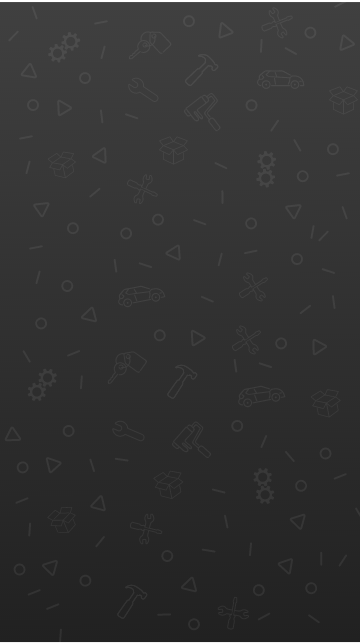
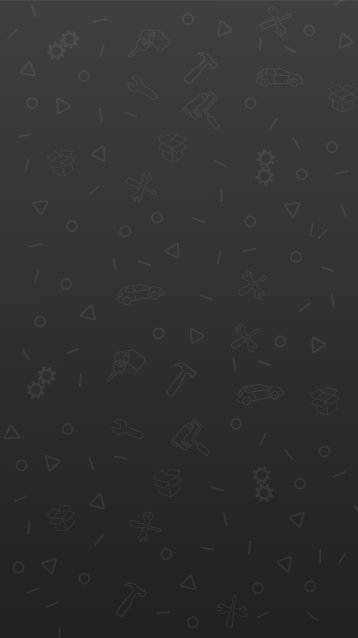
Preparing dark mode in home screen

Changed region(s): [[0.0, 0.0, 1.0, 1.0]]

diff --git a/lib/screens/home_screen.dart b/lib/screens/home_screen.dart
@@ -47,13 +47,7 @@ class _HomeScreenState extends State<HomeScreen> {
     super.initState();
   }
 
-  // ignore: unused_element
-  void _updateSettings() async {
-    FirebaseFirestore.instance.collection('users').doc(uid).update({
-      'isDark': isDark,
-      'isNotifications': isNotif,
-    });
-  }
+ 
 
   @override
   Widget build(BuildContext context) {
@@ -61,6 +55,7 @@ class _HomeScreenState extends State<HomeScreen> {
     if (settings.isDark == null) isDark = false;
 
     isNotif = settings.isNotifications;
+    //isDark = settings.isDark;
     //final uid = FirebaseAuth.instance.currentUser.uid;
     FirebaseFirestore.instance.collection('users').doc(uid).get();
     settings.setValues(
@@ -77,7 +72,9 @@ class _HomeScreenState extends State<HomeScreen> {
         decoration: BoxDecoration(
           //color: Color(0xFFF3F3F3),
           image: DecorationImage(
-            image: AssetImage(
+            image: isDark ? AssetImage(
+              'assets/dark.png',
+            ) : AssetImage(
               'assets/grey.png',
             ),
             fit: BoxFit.cover,
@@ -109,6 +106,7 @@ class _HomeScreenState extends State<HomeScreen> {
                       icon: Icon(
                         Icons.menu,
                         size: 35,
+                        color: isDark ? Colors.white : Colors.black,
                       ),
                       itemBuilder: (context) => [
                         PopupMenuItem(
@@ -141,7 +139,7 @@ class _HomeScreenState extends State<HomeScreen> {
                 left: MediaQuery.of(context).size.width * 0.3,
                 child: Text('What',
                     style: GoogleFonts.ubuntu(
-                      color: Color(0xFFFFD320),
+                      color: isDark ? Color(0xFF00D1CD) : Color(0xFFFFD320),
                       fontSize: 43,
                       letterSpacing: 0.1,
                       fontWeight: FontWeight.w600,
@@ -153,7 +151,7 @@ class _HomeScreenState extends State<HomeScreen> {
                 text: TextSpan(
                     text: 'would like to',
                     style: GoogleFonts.ubuntu(
-                      color: Colors.black,
+                      color: isDark ? Colors.white : Colors.black,
                       fontSize: 32,
                       letterSpacing: 0.1,
                       fontWeight: FontWeight.w600,
@@ -162,7 +160,7 @@ class _HomeScreenState extends State<HomeScreen> {
                       TextSpan(
                         text: ' do?',
                         style: GoogleFonts.ubuntu(
-                          color: Color(0xFFFFD320),
+                          color: isDark ? Color(0xFF00D1CD) : Color(0xFFFFD320),
                           fontSize: 43,
                           letterSpacing: 0.1,
                           fontWeight: FontWeight.w700,

diff --git a/lib/screens/account_screen.dart b/lib/screens/account_screen.dart
@@ -1,11 +1,14 @@
 import 'package:advMe/animation/bouncy_page_route.dart';
+import 'package:advMe/providers/settings.dart';
 import 'package:advMe/screens/ads_screen.dart';
 import 'package:advMe/screens/edit_profile.dart';
 import 'package:advMe/widgets/all_orders.dart';
 import 'package:advMe/widgets/favorite_orders.dart';
 import 'package:advMe/widgets/your_ads.dart';
+import 'package:cloud_firestore/cloud_firestore.dart';
 import 'package:firebase_auth/firebase_auth.dart';
 import 'package:flutter/material.dart';
+import 'package:provider/provider.dart';
 
 class AccountScreen extends StatefulWidget {
   @override
@@ -13,8 +16,20 @@ class AccountScreen extends StatefulWidget {
 }
 
 class _AccountScreenState extends State<AccountScreen> {
+
+  final uid = FirebaseAuth.instance.currentUser.uid;
+  bool isDark = false;
+  bool isNotif = false;
+
+  void _updateSettings() async {
+    FirebaseFirestore.instance.collection('users').doc(uid).update({
+      'isDark': isDark,
+      'isNotifications': isNotif,
+    });
+  }
   @override
   Widget build(BuildContext context) {
+     final settings = Provider.of<SettingsUser>(context);
     return Scaffold(
       body: Container(
           height: MediaQuery.of(context).size.height,
@@ -260,6 +275,27 @@ class _AccountScreenState extends State<AccountScreen> {
                     )
                   ]),
                 ),
+              ),
+              Positioned(
+                top: MediaQuery.of(context).size.height * 0.91,
+                left: MediaQuery.of(context).size.width * 0.7,
+                child: Row(children:[
+                  IconButton(icon: Icon(Icons.nightlight_round,color: settings.isDark ? Color(0xFF00D1CD) : Colors.white,size: 35,),onPressed: (){
+                    setState(() {
+                      settings.isDark = !settings.isDark;
+                    isDark = settings.isDark;
+                    _updateSettings();
+                    });
+                    
+                  },),
+                  IconButton(icon: Icon(Icons.wb_sunny,color: settings.isDark ? Colors.white : Color(0xFFFFD321),size: 35,),onPressed: (){
+                    setState(() {
+                      settings.isDark = !settings.isDark;
+                    isDark = settings.isDark;
+                    _updateSettings();
+                    });
+                  },),
+                ]),
               )
             ],
           )),
